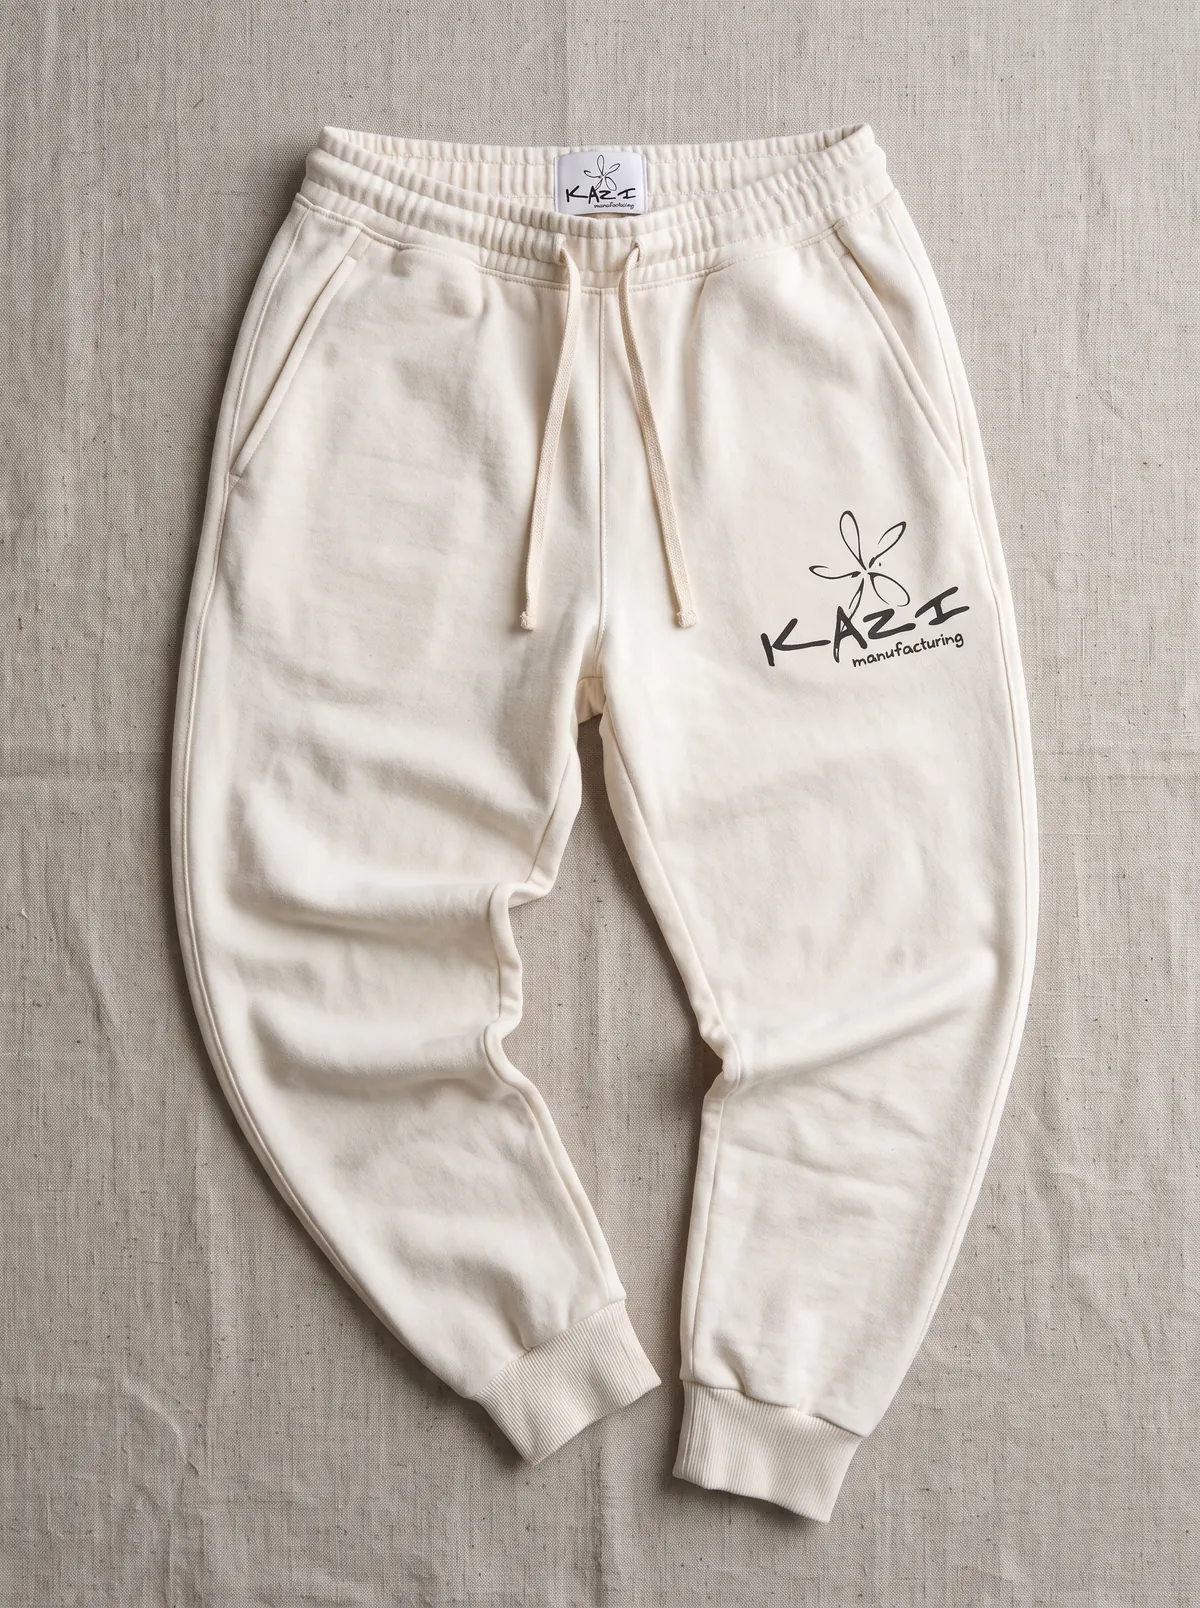
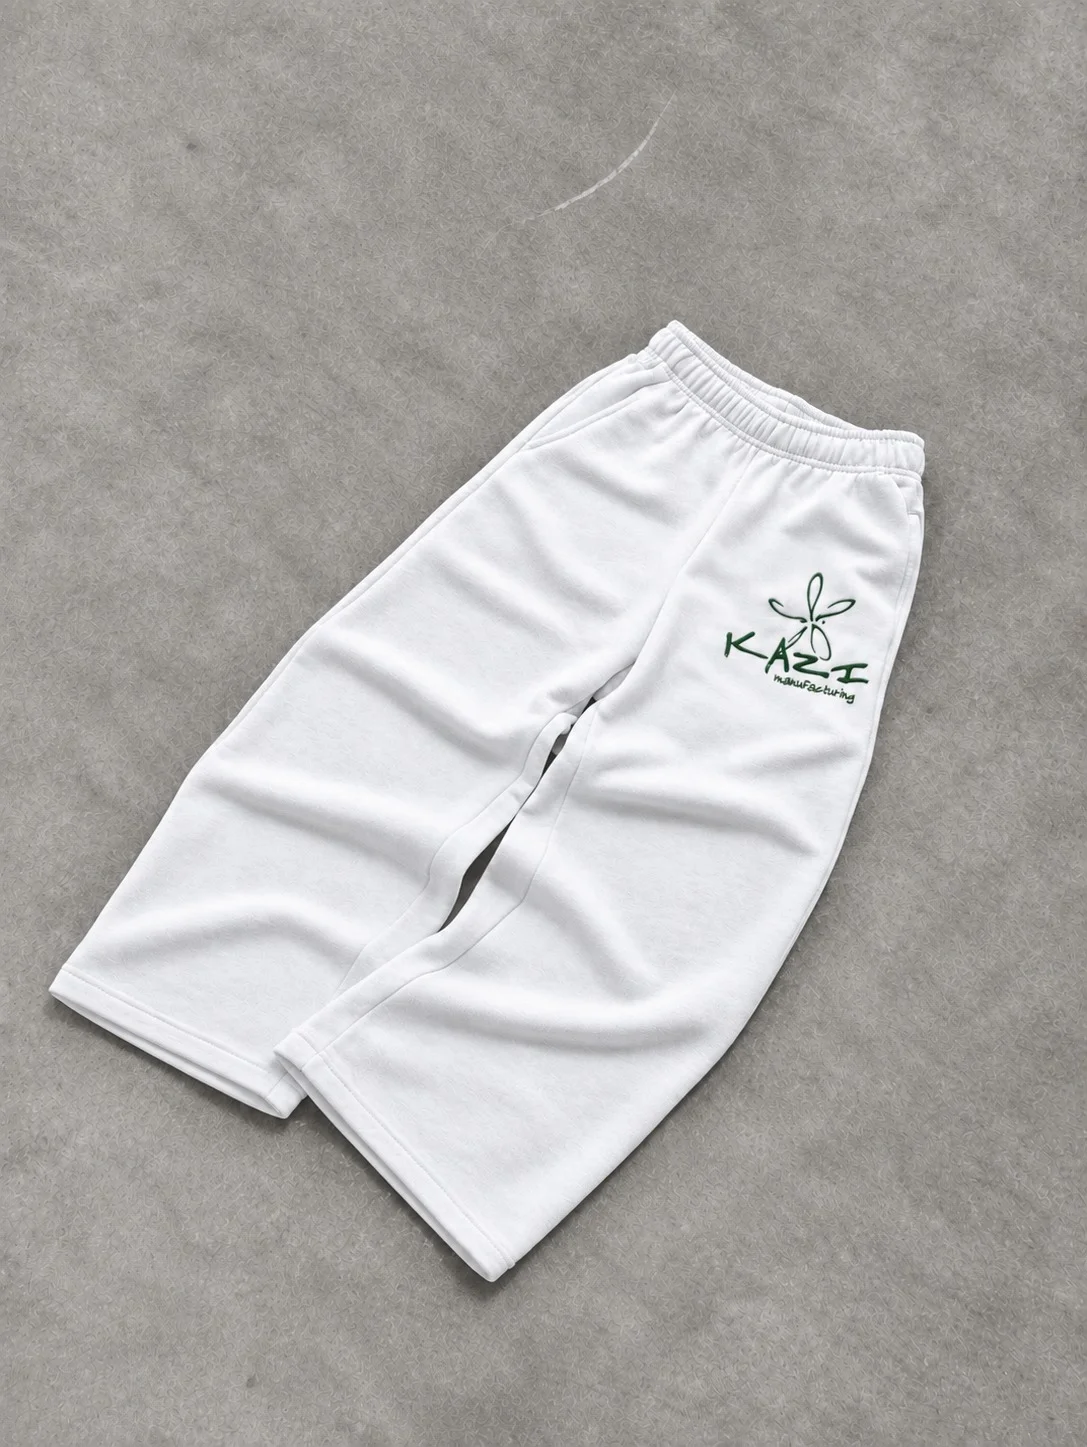
feat: new white-label photos, MOQ 100 on the landing page, joggers renamed sweatpants
Replace the seven collection photos with the supplied set (tee cropped to 3:4),
raise the MOQ from 50 to 100 across the homepage copy and the catalogue, and
rename Jogger Pants to Sweatpants (slug is now /products/sweatpants).

diff --git a/app/lib/products.js b/app/lib/products.js
@@ -12,8 +12,8 @@
 // real, selectable colour instead of snapping to the nearest one.
 //
 // Every product has its own `image`: a white-label product photo (a blank white product
-// carrying the Kazi logo) in public/images/collections/white-label/ — 3:4 portraits, 1200x1600
-// WebP copies of the originals supplied as "..._2K.jpg" downloads. One product per photo, so no
+// carrying the Kazi logo) in public/images/collections/white-label/ — 3:4 portraits, WebP
+// copies of the supplied photos (WhatsApp images and a "..._2K.jpg"). One product per photo, so no
 // two products share a picture, and a product without a real photo is not listed (the Canvas
 // Trainer was removed for that reason, along with the Footwear category). To add a product,
 // drop its photo in that folder and add an entry here; a new category goes in CATEGORIES too.
@@ -37,7 +37,7 @@ export const products = [
     garmentModel: "t-shirt",
     image: whiteLabelPhoto("tshirt"),
     price: "From £3.20 / unit",
-    moq: 50,
+    moq: 100,
     colors: [
       { name: "Oat", hex: "#E8E0D0" },
       { name: "Stone", hex: "#6B6560" },
@@ -66,7 +66,7 @@ export const products = [
     category: "Knitwear",
     image: whiteLabelPhoto("long-sleeve"),
     price: "From £4.80 / unit",
-    moq: 50,
+    moq: 100,
     colors: [
       { name: "White", hex: "#FFFFFF" },
       { name: "Oat", hex: "#E8E0D0" },
@@ -96,7 +96,7 @@ export const products = [
     garmentModel: "hoodie",
     image: whiteLabelPhoto("hoodie"),
     price: "From £8.50 / unit",
-    moq: 50,
+    moq: 100,
     colors: [
       { name: "Oat", hex: "#E8E0D0" },
       { name: "Stone", hex: "#6B6560" },
@@ -125,7 +125,7 @@ export const products = [
     category: "Outerwear",
     image: whiteLabelPhoto("vest"),
     price: "From £14.50 / unit",
-    moq: 50,
+    moq: 100,
     colors: [
       { name: "Oat", hex: "#E8E0D0" },
       { name: "Stone", hex: "#6B6560" },
@@ -149,12 +149,12 @@ export const products = [
     ],
   },
   {
-    slug: "jogger-pants",
-    name: "Jogger Pants",
+    slug: "sweatpants",
+    name: "Sweatpants",
     category: "Bottoms",
     image: whiteLabelPhoto("pants"),
     price: "From £9.80 / unit",
-    moq: 50,
+    moq: 100,
     colors: [
       { name: "Oat", hex: "#E8E0D0" },
       { name: "Stone", hex: "#6B6560" },
@@ -163,7 +163,7 @@ export const products = [
     ],
     sizes: SIZES,
     description:
-      "Relaxed joggers in brushed loopback fleece — an elasticated drawstring waist, side pockets and ribbed cuffs, with room on the thigh for a print or embroidery.",
+      "Relaxed sweatpants in brushed loopback fleece — an elasticated drawstring waist, side pockets and ribbed cuffs, with room on the thigh for a print or embroidery.",
     specs: [
       "Elasticated waist with flat drawstring",
       "Side pockets",
@@ -183,7 +183,7 @@ export const products = [
     category: "Accessories",
     image: whiteLabelPhoto("tote"),
     price: "From £3.80 / unit",
-    moq: 50,
+    moq: 100,
     colors: [
       { name: "Oat", hex: "#E8E0D0" },
       { name: "Black", hex: "#1A1A1A" },
@@ -209,7 +209,7 @@ export const products = [
     category: "Accessories",
     image: whiteLabelPhoto("apron"),
     price: "From £5.20 / unit",
-    moq: 50,
+    moq: 100,
     colors: [
       { name: "Oat", hex: "#E8E0D0" },
       { name: "Black", hex: "#1A1A1A" },

diff --git a/app/components/home/AudienceSplit.jsx b/app/components/home/AudienceSplit.jsx
@@ -5,13 +5,13 @@ import { Reveal } from "@/components/Reveal";
 
 // Layout reference: the Antigravity "for developers / for organizations" split — two large
 // cards, each with a short label, a headline and one button. Here: new brands vs. established
-// brands. Claims in the copy mirror the site's FAQ (50-unit minimum, private label, the same
+// brands. Claims in the copy mirror the site's FAQ (100-unit minimum, private label, the same
 // tailoring team throughout, a firm date in every quote).
 const AUDIENCES = [
   {
     label: "For new brands",
     title: "Launch your first collection.",
-    body: "Start from 50 pieces per style. Pick a blank, design it in the Atelier, and we guide you from sample to shelf.",
+    body: "Start from 100 pieces per style. Pick a blank, design it in the Atelier, and we guide you from sample to shelf.",
     image: "/images/home/audience-new.webp",
     alt: "A tailor's hands feeding denim through a sewing machine",
     cta: { href: "/atelier", label: "Start designing", primary: true },

diff --git a/app/components/LookbookPage.jsx b/app/components/LookbookPage.jsx
@@ -41,19 +41,19 @@ const GALLERY = [
   {
     category: "Bottoms",
     image: whiteLabelPhoto("pants"),
-    alt: "Cream jogger pants with a Kazi logo on the thigh",
-    caption: "Joggers, pants and denim, cut and finished to hold their shape.",
+    alt: "White sweatpants with a Kazi logo on the hip",
+    caption: "Sweatpants, pants and denim, cut and finished to hold their shape.",
   },
   {
     category: "Accessories",
     image: whiteLabelPhoto("tote"),
-    alt: "A canvas tote bag with a large Kazi logo, hanging on a wooden peg",
+    alt: "A white canvas tote bag with a large Kazi logo on the front",
     caption: "Bags, caps and small leather goods.",
   },
   {
     category: "Accessories",
     image: whiteLabelPhoto("apron"),
-    alt: "A white apron with a Kazi logo on the bib, hanging on a wooden peg",
+    alt: "A white apron with a Kazi logo on the pocket",
     caption: "Aprons and workwear, branded to order.",
   },
 ];

diff --git a/app/components/home/BlankRail.jsx b/app/components/home/BlankRail.jsx
@@ -47,7 +47,7 @@ const GARMENT_CARDS = [
 // photo (lib/products.js): a 3:4 portrait shown here as a 5:4 crop, so `position` picks the band of
 // the photo that holds the logo.
 const PHOTO_CARDS = [
-  { title: "Pants", product: getProductBySlug("jogger-pants"), position: "50% 38%" },
+  { title: "Pants", product: getProductBySlug("sweatpants"), position: "50% 38%" },
   { title: "Totes", product: getProductBySlug("canvas-tote"), position: "50% 52%" },
 ];
 
@@ -201,7 +201,7 @@ function AllBlanksCard({ index }) {
           </Link>
         </h3>
         <p className="m-0 mt-2 max-w-[19ch] font-body text-[0.8125rem] leading-snug text-bone">
-          Tees, hoodies, vests, pants, aprons and totes &mdash; all from 50 pieces.
+          Tees, hoodies, vests, pants, aprons and totes &mdash; all from 100 pieces.
         </p>
       </div>
     </li>

diff --git a/app/components/home/HomeHero.jsx b/app/components/home/HomeHero.jsx
@@ -35,7 +35,7 @@ export function HomeHero() {
           </h1>
           {/* The longer copy and the second button are left out on phones to keep the block narrow. */}
           <p className="m-0 mt-5 hidden max-w-[34rem] text-pretty font-body text-[1.375rem] leading-snug text-white [text-shadow:0_1px_14px_rgba(2,18,50,0.5)] md:block">
-            Choose a white-label blank, add your branding, and we&rsquo;ll cut, sew and ship it &mdash; from just 50
+            Choose a white-label blank, add your branding, and we&rsquo;ll cut, sew and ship it &mdash; from just 100
             pieces.
           </p>
 

diff --git a/app/components/home/catalogue.js b/app/components/home/catalogue.js
@@ -8,7 +8,7 @@ const parsePrice = (product) => Number.parseFloat(product.price.replace(/[^\d.]/
 
 /** The short line under a card title for a group of products — minimum order, plus price when enabled. */
 export function priceLine(items) {
-  const moq = Math.min(...items.map((p) => p.moq ?? 50));
+  const moq = Math.min(...items.map((p) => p.moq ?? 100));
   if (!SHOW_PRICES) return `From ${moq} pieces`;
   const amounts = items.map(parsePrice).filter(Number.isFinite);
   return amounts.length ? `From £${Math.min(...amounts).toFixed(2)} · MOQ ${moq}` : `From ${moq} pieces`;

diff --git a/app/components/home/ChipsStatement.jsx b/app/components/home/ChipsStatement.jsx
@@ -76,7 +76,7 @@ export function ChipsStatement() {
           className="m-0 max-w-[26ch] font-display text-[clamp(2rem,4vw,3.75rem)] leading-[1.08] tracking-[-0.02em] text-pine md:max-w-[31ch]"
         >
           Kazi is the Kathmandu workshop behind small and growing clothing brands. Pick a blank, add your label, and
-          we&rsquo;ll make it by hand &mdash; from just 50 pieces.
+          we&rsquo;ll make it by hand &mdash; from just 100 pieces.
         </ScrollReveal>
 
         <div className="mt-10 flex flex-wrap items-center gap-3 md:mt-14">

diff --git a/app/components/FaqSection.jsx b/app/components/FaqSection.jsx
@@ -6,7 +6,7 @@ import { Reveal } from "@/components/Reveal";
 const FAQS = [
   {
     q: "What's your minimum order quantity?",
-    a: "We take on small-batch runs starting from 50 units per style, so new and growing brands can order without over-committing to stock.",
+    a: "We take on small-batch runs starting from 100 units per style, so new and growing brands can order without over-committing to stock.",
   },
   {
     q: "Do you make samples before full production?",

diff --git a/app/components/home/RangeGrid.jsx b/app/components/home/RangeGrid.jsx
@@ -17,7 +17,7 @@ const TILES = [
   { slug: "long-sleeve-tee", title: "Long sleeves" },
   { slug: "essential-hoodie", title: "Hoodies" },
   { slug: "utility-vest", title: "Vests" },
-  { slug: "jogger-pants", title: "Pants" },
+  { slug: "sweatpants", title: "Pants" },
   { slug: "work-apron", title: "Aprons" },
   { slug: "canvas-tote", title: "Tote bags" },
 ].map((tile) => ({ ...tile, product: getProductBySlug(tile.slug) }));
